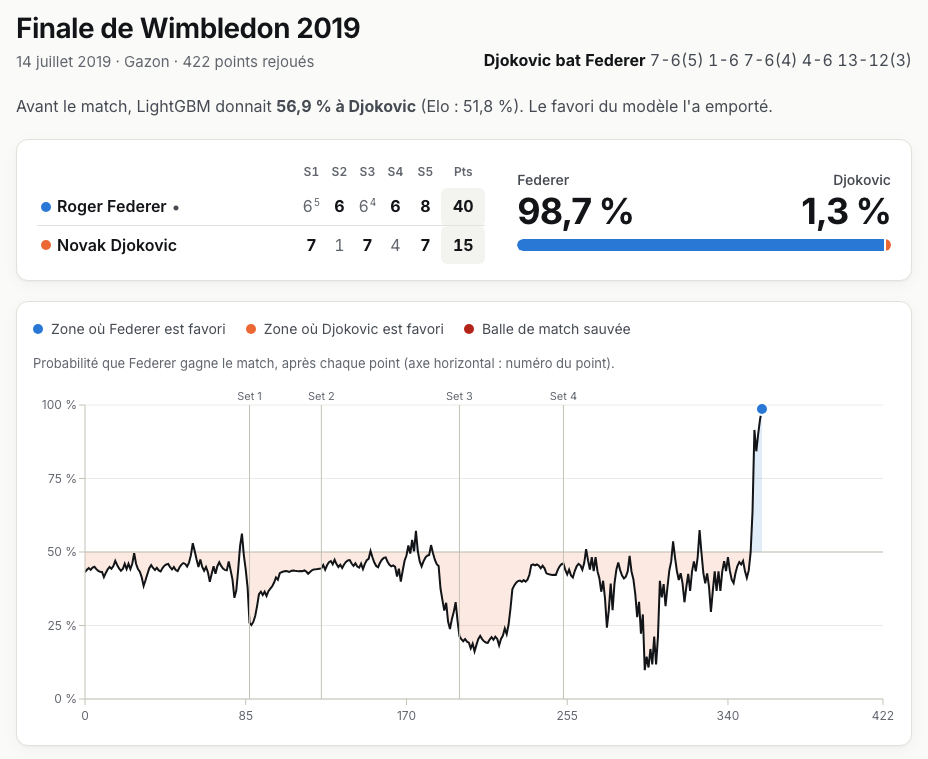
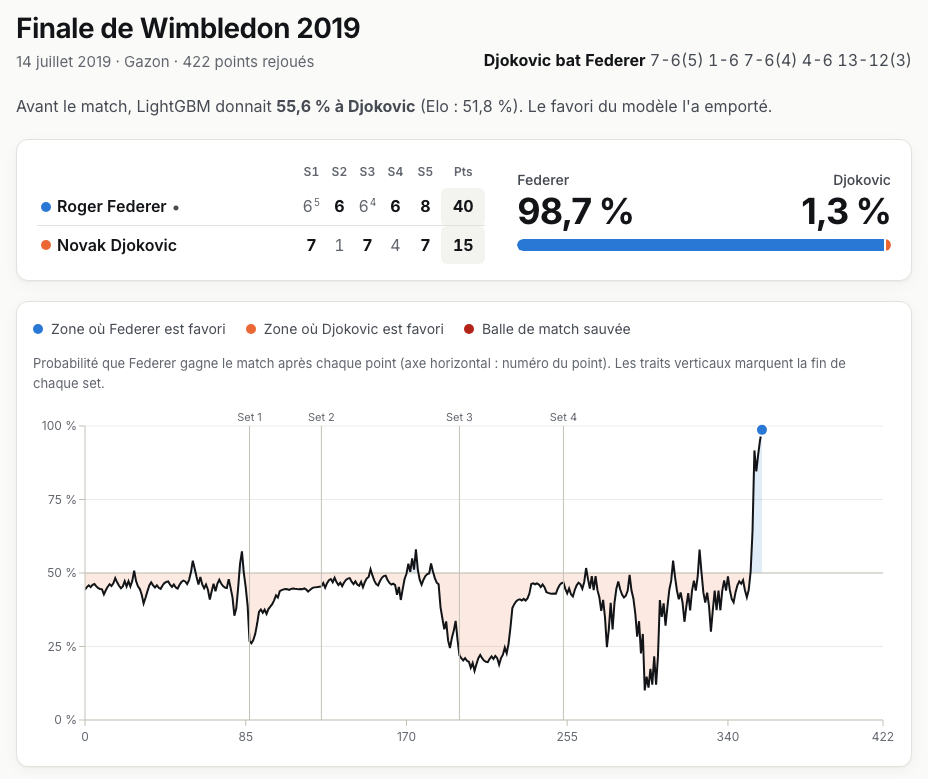
docs: met à jour les résultats et les captures du README

diff --git a/README.md b/README.md
@@ -81,9 +81,11 @@ Chaque match est présenté deux fois à l'entraînement (du point de vue de cha
 
 ### Comparateur : prédiction à la demande, sans serveur
 
+![Comparateur : Sinner contre Alcaraz sur terre battue en Grand Chelem, probabilités calculées dans le navigateur, avec le Elo seul et le face-à-face pour comparaison](docs/comparateur.png)
+
 Un serveur Python ferait ce calcul plus simplement, mais il coûterait de l'argent ou s'endormirait après quelques minutes d'inactivité ; précalculer toutes les paires de joueurs grandirait au carré. Le calcul est donc fait dans le navigateur :
 
-1. **Modèle** : le LightGBM évalué ci-dessous est converti avec `onnxmltools.convert_lightgbm`, puis passé en double précision ([`pipeline/onnx_export.py`](pipeline/onnx_export.py)) et publié dans `web/public/model/matchpoint.onnx`. La conversion standard compare les valeurs en simple précision alors que LightGBM travaille en double : sur le modèle publié, elle s'écartait de plusieurs points de probabilité. L'export est refusé si l'écart entre ONNX Runtime et LightGBM dépasse **1e-6** sur les matchs de la période de test.
+1. **Modèle** : le LightGBM évalué ci-dessous est converti avec `onnxmltools.convert_lightgbm`, puis passé en double précision ([`pipeline/onnx_export.py`](pipeline/onnx_export.py)) et publié dans `web/public/model/matchpoint.onnx`. La conversion standard compare les valeurs en simple précision alors que LightGBM travaille en double : sur le modèle publié, elle s'écartait jusqu'à 4,8 points de probabilité, contre 8e-8 après passage en double précision. L'export est refusé si l'écart entre ONNX Runtime et LightGBM dépasse **1e-6** sur les matchs de la période de test.
 2. **Joueurs** : [`pipeline/export_players.py`](pipeline/export_players.py) écrit `web/public/data/players.json`, une ligne par joueur ayant au moins 5 matchs complets dans la base : identité, main, taille, date de naissance, Elo global et par surface, forme sur 10 et 20 matchs (toutes surfaces et par surface), service et retour sur fenêtre glissante, classement et âge au dernier match, date du dernier match. `web/public/data/h2h.json` contient les face-à-face des paires qui se sont déjà rencontrées.
 3. **Variables** : [`web/lib/features.ts`](web/lib/features.ts) reprend une à une les formules de [`pipeline/features.py`](pipeline/features.py). Le match imaginé est un premier tour du type de tournoi choisi, chaque joueur étant pris tel qu'il était à son dernier match connu et arrivant reposé (7 jours).
 4. **Calcul** : `onnxruntime-web` est chargé à la demande, au premier calcul sur la page `/comparateur` (le reste du site n'en paie pas le coût), puis la prévision est symétrisée comme pendant l'évaluation. Aucune requête réseau n'a lieu après ce premier chargement.
@@ -106,21 +108,21 @@ Période de test : 4 140 matchs, du 6 janvier 2025 au 7 juin 2026.
 | --- | ---: | ---: | ---: | ---: |
 | Elo par surface (baseline) | 64,8 % | 0,6342 | 0,2208 | 5,2 % |
 | Elo recalibré | 64,8 % | 0,6244 | 0,2178 | 1,9 % |
-| **LightGBM** | **66,3 %** | **0,6028** | **0,2088** | **1,9 %** |
+| **LightGBM** | **66,4 %** | **0,6024** | **0,2087** | **1,8 %** |
 
 Écart LightGBM − Elo, avec intervalle de confiance à 95 % (bootstrap apparié, 2 000 tirages) :
 
 | Métrique | Face au Elo | Face au Elo recalibré |
 | --- | --- | --- |
-| Exactitude | +1,6 pt [+0,4 ; +2,7] | +1,6 pt [+0,4 ; +2,7] |
-| Log loss | −0,031 [−0,041 ; −0,023] | −0,022 [−0,029 ; −0,014] |
-| Brier | −0,012 [−0,016 ; −0,008] | −0,009 [−0,012 ; −0,006] |
+| Exactitude | +1,6 pt [+0,5 ; +2,8] | +1,6 pt [+0,5 ; +2,8] |
+| Log loss | −0,032 [−0,041 ; −0,023] | −0,022 [−0,029 ; −0,015] |
+| Brier | −0,012 [−0,016 ; −0,009] | −0,009 [−0,012 ; −0,006] |
 
-**Ce que ça signifie.** LightGBM bat la baseline de façon statistiquement significative sur les trois métriques, mais le gain reste modeste : 1,6 point d'exactitude, et un tiers des matchs restent mal prédits. Près d'un tiers du gain en log loss vient simplement d'une meilleure calibration (le Elo classique est trop sûr de lui) ; le reste est une information que le Elo seul ne capte pas. Sur le backtest annuel 2006–2026, LightGBM obtient une meilleure log loss que le Elo sur les 21 saisons. En revanche, il fait légèrement moins bien que le Elo en Masters 1000 (63,0 % contre 63,7 % d'exactitude sur 1 156 matchs).
+**Ce que ça signifie.** LightGBM bat la baseline de façon statistiquement significative sur les trois métriques, mais le gain reste modeste : 1,6 point d'exactitude, et un tiers des matchs restent mal prédits. Près d'un tiers du gain en log loss vient simplement d'une meilleure calibration (le Elo classique est trop sûr de lui) ; le reste est une information que le Elo seul ne capte pas. Sur le backtest annuel 2006–2026, LightGBM obtient une meilleure log loss que le Elo sur les 21 saisons. En revanche, il fait légèrement moins bien que le Elo en Masters 1000 (62,7 % contre 63,7 % d'exactitude sur 1 156 matchs).
 
 ## Limites connues
 
-- **Joueurs peu connus du modèle** : seuls les matchs du circuit principal sont utilisés (pas les Challengers ni les qualifications), si bien qu'un joueur qui arrive sur le circuit démarre sans historique. Sur la période de test, l'exactitude ne s'effondre pas (66,5 % quand l'un des joueurs a moins de 30 matchs en base, 66,3 % sinon), mais ces prévisions reposent sur peu d'information.
+- **Joueurs peu connus du modèle** : seuls les matchs du circuit principal sont utilisés (pas les Challengers ni les qualifications), si bien qu'un joueur qui arrive sur le circuit démarre sans historique. Sur la période de test, l'exactitude baisse peu (65,9 % quand l'un des joueurs a moins de 30 matchs en base, 66,6 % sinon), mais ces prévisions reposent sur peu d'information.
 - **Blessures et contexte invisibles** : blessure en cours, maladie, motivation, météo, altitude, type de balle, salle ou extérieur ne sont pas dans les données.
 - **Exclusion des abandons** : on ne sait pas avant un match qu'il finira sur abandon ; les retirer de l'évaluation rend les scores légèrement optimistes, pour tous les modèles.
 - **Dates approximatives** : la base ne donne que la date de début du tournoi ; la date de chaque match est estimée selon le tour.
